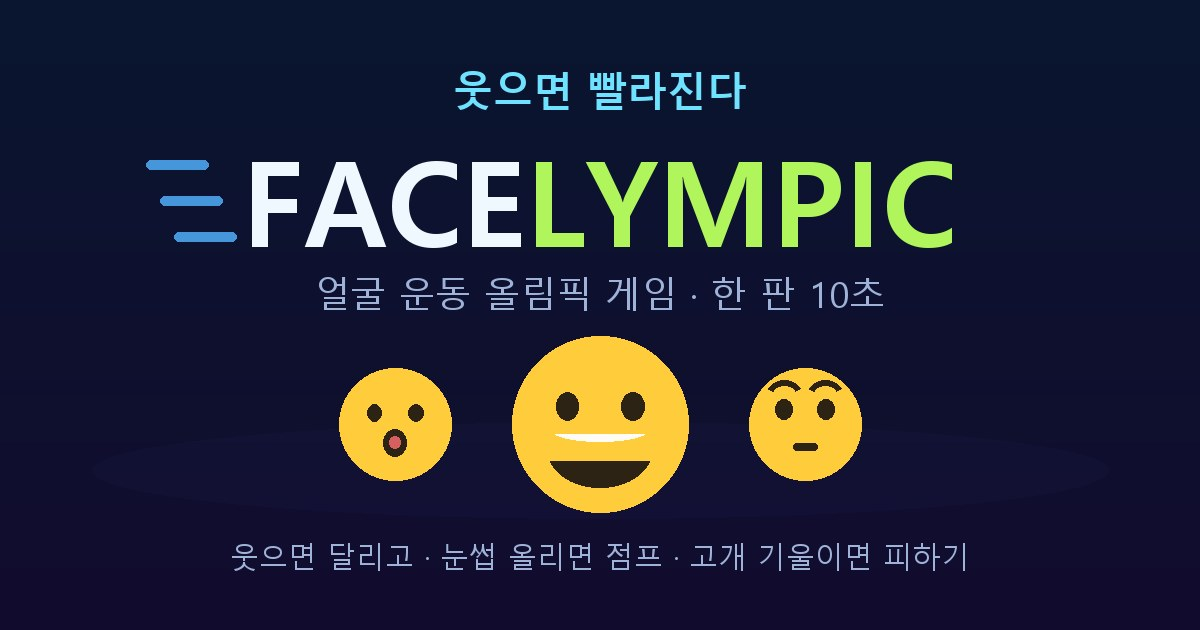
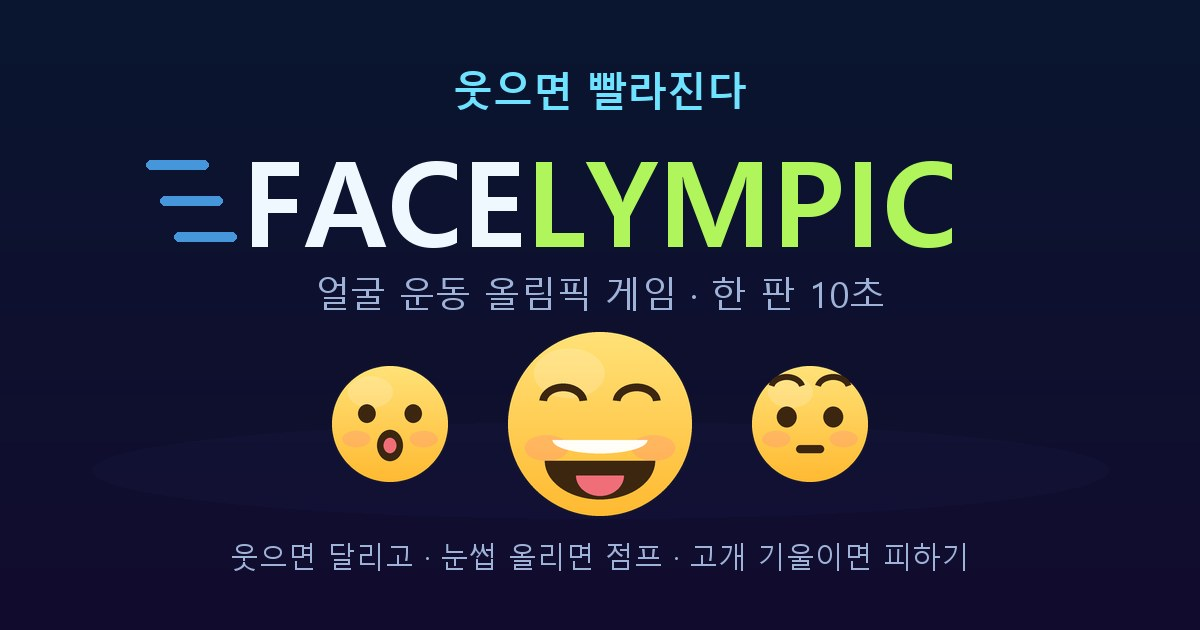
Brighten the preview-card faces to match the app's own emoji
The smile read as polite rather than delighted next to the hero emoji in
the app. Redrawn closer to those: a warm top-to-bottom gradient with a
highlight and blushed cheeks, arched ^^ eyes, and a wide open mouth with
teeth and tongue. The side faces now clearly show the two moves they
stand for — pucker to blast the monster, brows up to jump.

Everything is drawn at 4x and downsampled, since PIL has no shape
antialiasing and the curves were visibly stepped.

og:image gets ?v=2 — chat apps cache the image by URL, so replacing the
file alone would keep serving the old card.

Changed region(s): [[0.2775, 0.5127, 0.5858, 0.8444], [0.6167, 0.573, 0.74, 0.7841]]

diff --git a/facelympic.html b/facelympic.html
@@ -12,7 +12,8 @@
 <meta property="og:title" content="Facelympic — 얼굴 운동 올림픽 게임">
 <meta property="og:description" content="웃으면 달리고, 눈썹 올리면 점프. 한 판 10초. 카메라는 기기 안에서만 처리됩니다.">
 <meta property="og:url" content="https://facelympic.vercel.app/">
-<meta property="og:image" content="https://facelympic.vercel.app/og.jpg">
+<!-- ⚠ 카톡·SNS는 이미지를 URL 단위로 캐시한다. og.jpg를 바꾸면 v를 올려야 새 카드가 뜬다. -->
+<meta property="og:image" content="https://facelympic.vercel.app/og.jpg?v=2">
 <meta property="og:image:width" content="1200">
 <meta property="og:image:height" content="630">
 <meta name="twitter:card" content="summary_large_image">
@@ -712,7 +713,7 @@ import { FilesetResolver, FaceLandmarker }
   from "https://cdn.jsdelivr.net/npm/@mediapipe/tasks-vision@0.10.35/vision_bundle.mjs";
 
 // 배포 식별자 — 원격 진단 시 "새 버전을 받았는지" 즉시 확인용(진단 화면 첫 줄). 배포할 때마다 갱신.
-const BUILD='2026-07-30k';
+const BUILD='2026-07-30l';
 const $ = (id)=>document.getElementById(id);
 const screens = { intro:$("intro"), select:$("select"), settings:$("settings"), profileEdit:$("profileEdit"), langScreen:$("langScreen"), diag:$("diag"), shop:$("shop"), consent:$("consent"), legal:$("legal"), calib:$("calib"), game:$("game"), done:$("done") };
 function show(n){ Object.values(screens).forEach(s=>s.classList.remove("active")); screens[n].classList.add("active"); }

diff --git a/index.html b/index.html
@@ -12,7 +12,8 @@
 <meta property="og:title" content="Facelympic — 얼굴 운동 올림픽 게임">
 <meta property="og:description" content="웃으면 달리고, 눈썹 올리면 점프. 한 판 10초. 카메라는 기기 안에서만 처리됩니다.">
 <meta property="og:url" content="https://facelympic.vercel.app/">
-<meta property="og:image" content="https://facelympic.vercel.app/og.jpg">
+<!-- ⚠ 카톡·SNS는 이미지를 URL 단위로 캐시한다. og.jpg를 바꾸면 v를 올려야 새 카드가 뜬다. -->
+<meta property="og:image" content="https://facelympic.vercel.app/og.jpg?v=2">
 <meta property="og:image:width" content="1200">
 <meta property="og:image:height" content="630">
 <meta name="twitter:card" content="summary_large_image">
@@ -712,7 +713,7 @@ import { FilesetResolver, FaceLandmarker }
   from "https://cdn.jsdelivr.net/npm/@mediapipe/tasks-vision@0.10.35/vision_bundle.mjs";
 
 // 배포 식별자 — 원격 진단 시 "새 버전을 받았는지" 즉시 확인용(진단 화면 첫 줄). 배포할 때마다 갱신.
-const BUILD='2026-07-30k';
+const BUILD='2026-07-30l';
 const $ = (id)=>document.getElementById(id);
 const screens = { intro:$("intro"), select:$("select"), settings:$("settings"), profileEdit:$("profileEdit"), langScreen:$("langScreen"), diag:$("diag"), shop:$("shop"), consent:$("consent"), legal:$("legal"), calib:$("calib"), game:$("game"), done:$("done") };
 function show(n){ Object.values(screens).forEach(s=>s.classList.remove("active")); screens[n].classList.add("active"); }
